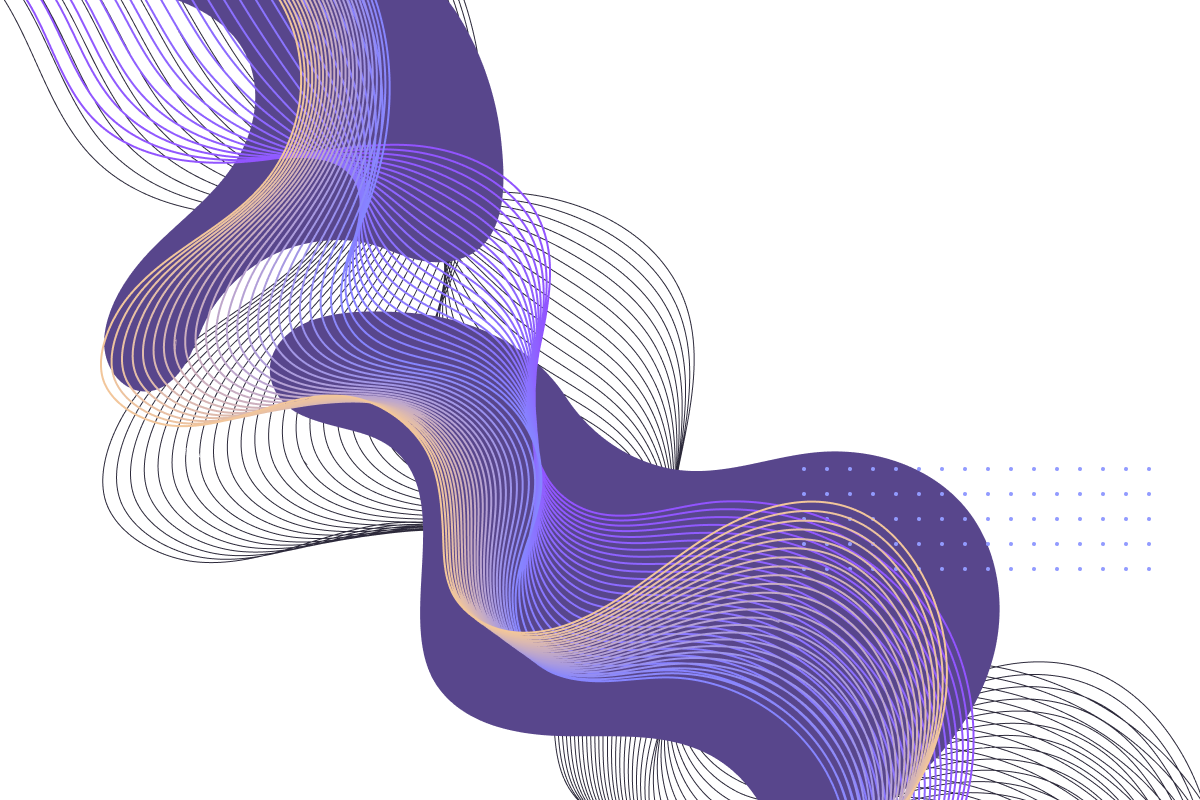
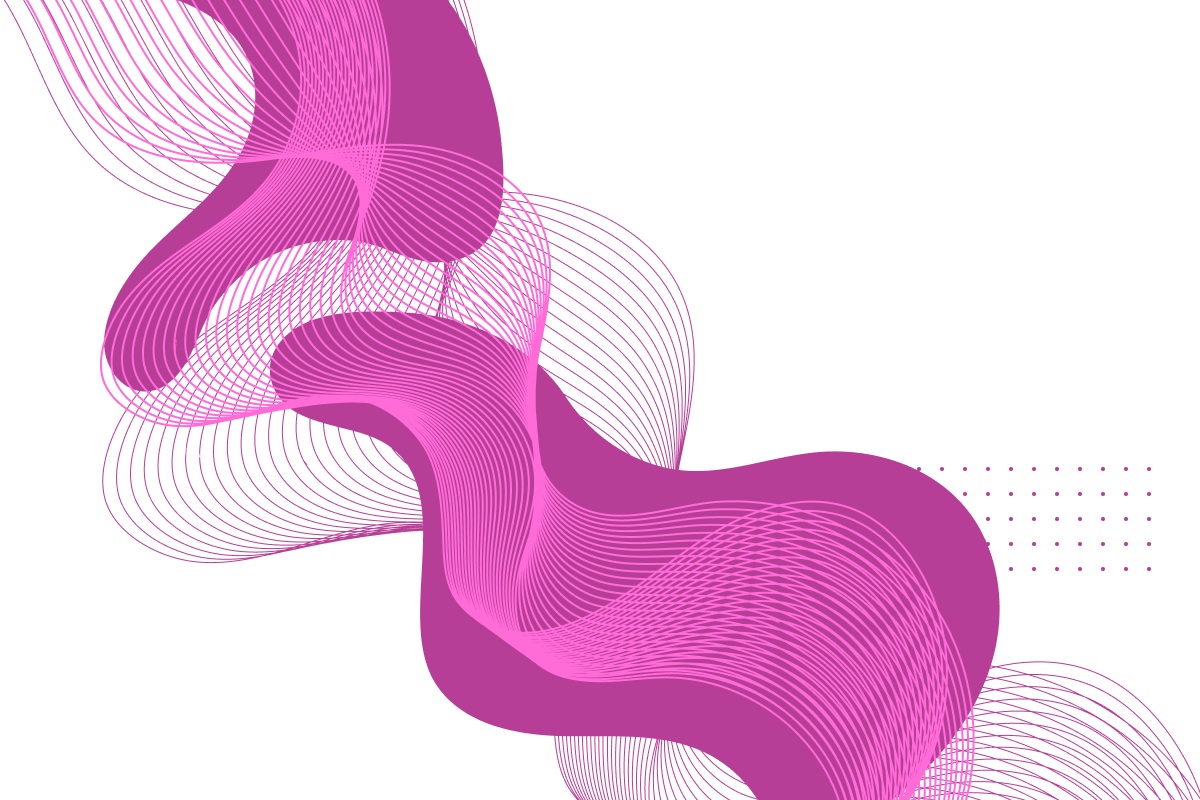
feat: final project - fix responsive issue and colors

diff --git a/src/components/Skills.js b/src/components/Skills.js
@@ -1,6 +1,7 @@
 import React from 'react';
 import gridImage from "@/assets/images/grid-image1.png";
 import gridImage2 from "@/assets/images/grid-image2.png";
+import clsx from 'clsx';
 
 const Skills = () => {
     return (
@@ -9,22 +10,16 @@ const Skills = () => {
             <div className="flex items-center space-x-4 sm:justify-center">
                 <h2 className="font-bold text-7xl text-start md:text-6xl xs:text-5xl">Skills</h2>
                 <span
-                    className={`xs:hidden h-[3px] w-40 bg-primary dark:bg-purple-500 transition-all duration-300 group-hover:w-52 md:w-32 sm:w-24`}
+                    className={`xs:hidden h-[3px] w-40 bg-primary dark:bg-primaryDark transition-all duration-300 group-hover:w-52 md:w-32 sm:w-24`}
                 ></span>
             </div>
 
 
             <div
-                className="grid grid-cols-3 sm:grid-cols-2 xl:grid-cols-4 relative rounded-2xl py-16 md:py-8"
-                style={{
-                    backgroundImage: `url(${gridImage.src})`,
-                    backgroundSize: 'cover',
-                    backgroundPosition: 'center',
-                    position: 'relative',
-                }}
-            >
-                {/* Sobreposição de opacidade */}
-                <div className="absolute inset-0 z-1 sm:hidden bg-bgLightXl dark:bg-bgDarkXl"  style={{
+                className="grid grid-cols-3 sm:grid-cols-2 xl:grid-cols-4 relative rounded-2xl py-16 md:py-8 skills-container">
+
+
+                <div className="absolute inset-0 z-1 sm:hidden bg-bgLightXl dark:bg-bgDarkXl" style={{
                     zIndex: 1
                 }}/>
                 <div className="absolute inset-0 z-1 hidden bg-bgLight sm:block dark:bg-bgDark" style={{
@@ -39,10 +34,15 @@ const Skills = () => {
         p-4 border-b-5xl border-mid-5xl  border-light dark:border-dark h-[276px] w-full sm:border-b-5xl sm:border-r-0
          xl:items-center xl:justify-center"
                     >
-                        <div className="absolute inset-0   bg-black/20 dark:bg-black/40"/>
-                        <div className="relative self-end  z-10 w-2/4 text-end lg:w-full  xl:w-full xl:text-center lg:self-end px-4 pb-4">
-                            <p className="dark:text-white text-2xl font-bold md:text-base sm:text-xl">Frontend Skills</p>
-                            <p className="dark:text-white text-base font-medium md:text-sm sm:text-lg">
+                        <div
+                            className="absolute inset-0 z-10 border-2 border-black dark:border-light bg-light/40 dark:bg-black/40 dark:md:bg-black/20 "></div>
+
+                        <div
+                            className="relative self-end  z-10 w-2/4 text-end lg:w-full  xl:w-full xl:text-center lg:self-end px-4 pb-4">
+                            <p className="dark:text-white text-2xl font-bold md:text-xl">
+                                <span className="  md:text-primary dark:text-primaryDark">Frontend&nbsp;</span>
+                                Skills</p>
+                            <p className="dark:text-white text-lg font-medium md:text-sm sm:text-lg">
                                 Lorem ipsum dolor sit amet, consectetur adipiscing elit.
                             </p>
                         </div>
@@ -51,15 +51,18 @@ const Skills = () => {
 
 
                 {/* Skill Section 2 */}
-                <div className="col-span-1 row-span-2 xl:col-span-2 xl:row-span-1 relative sm:h-64 xl:border-b-5xl dark:border-dark ">
+                <div
+                    className="col-span-1 row-span-2 xl:col-span-2 xl:row-span-1 relative sm:h-64 xl:border-b-5xl dark:border-dark ">
                     <div
                         className="relative flex items-start text-start p-4
                         h-full w-full xl:items-center xl:text-center "
                     >
-                        <div className="absolute inset-0  bg-black/20  dark:bg-black/40 "></div>
+                        <div
+                            className="absolute inset-0 z-10 border-2 border-black dark:border-light  bg-light/40 dark:bg-black/40 dark:md:bg-black/20 "></div>
                         <div className="relative z-10 w-full px-4 pb-4">
-                            <p className="dark:text-white text-2xl font-bold md:text-base sm:text-xl">Backend Skills</p>
-                            <p className="dark:text-white text-base font-medium md:text-sm sm:text-lg">
+                            <p className="dark:text-white text-2xl font-bold md:text-xl sm:text-xl">
+                                <span className="  md:text-primary dark:text-primaryDark">Backend&nbsp;</span>Skills</p>
+                            <p className="dark:text-white text-lg font-medium md:text-sm sm:text-lg">
                                 Lorem ipsum dolor sit amet, consectetur adipiscing elit.
                             </p>
                         </div>
@@ -72,10 +75,13 @@ const Skills = () => {
                         className="relative flex items-end text-start p-4 border-mid-5xl
                         sm:border-r-0 sm:border-b-5xl dark:border-dark h-[276px] w-full xl:items-center xl:text-center"
                     >
-                        <div className="absolute inset-0   bg-black/20 dark:bg-black/40 "></div>
+                        <div
+                            className="absolute inset-0 z-10 border-2 border-black dark:border-light bg-light/40 dark:bg-black/40 dark:md:bg-black/20 "></div>
+
                         <div className="relative z-10 w-full px-4 pb-4">
-                            <p className="dark:text-white text-2xl font-bold md:text-base sm:text-xl">Soft Skills</p>
-                            <p className="dark:text-white text-base font-medium md:text-sm w-4/6 xl:w-full sm:text-lg">
+                            <p className="dark:text-white text-2xl font-bold md:text-xl">
+                                <span className="  md:text-primary dark:text-primaryDark">Design&nbsp;</span>Skills</p>
+                            <p className="dark:text-white text-lg font-medium md:text-sm w-full xl:w-full sm:text-lg">
                                 Lorem ipsum dolor sit amet, consectetur adipiscing elit.
                             </p>
                         </div>
@@ -85,13 +91,15 @@ const Skills = () => {
                 {/* Contact Section */}
                 <div className="col-span-1 xl:col-span-2 relative">
                     <div
-                        className="relative flex items-end text-start p-4 border-mid-5xl
+                        className="relative flex items-end text-end p-4 border-mid-5xl
                          dark:border-dark xl:border-none  h-[276px] w-full xl:items-center xl:text-center"
                     >
-                        <div className="absolute inset-0  bg-black/20 dark:bg-black/40 "></div>
+                        <div
+                            className="absolute inset-0 z-10 border-2   border-black dark:border-light bg-light/40 dark:bg-black/40 dark:md:bg-black/20 "></div>
+
                         <div className="relative z-10 w-full px-4 pb-4">
-                            <p className="dark:text-white text-2xl font-bold md:text-base sm:text-xl">Contact</p>
-                            <p className="dark:text-white text-base font-medium md:text-sm w-4/6  xl:w-full sm:text-lg">
+                            <p className="dark:text-white text-2xl font-bold md:text-xl">Contact</p>
+                            <p className="dark:text-white text-lg font-medium md:text-sm w-full  xl:w-full sm:text-lg">
                                 Lorem ipsum dolor sit amet, consectetur adipiscing elit.
                             </p>
                         </div>

diff --git a/tailwind.config.js b/tailwind.config.js
@@ -26,7 +26,7 @@ module.exports = {
                 bgDarkXl: 'linear-gradient(0deg, rgba(27, 27, 27, 1) 0%, rgba(27,27,27,0.85) 5%, rgba(27,27,27,0.7) 8.6%, rgba(27,27,27,0) 15%, rgba(27, 27, 27, 0) 50%, rgba(27,27,27,0) 88%, rgba(27,27,27,0.8) 91%, rgba(27,27,27,0.9) 94%,  rgba(27, 27, 27, 2) 100%)',
                 bgDark: 'linear-gradient(0deg, rgba(27, 27, 27, 1) 0%, rgba(27,27,27,0.85) 5%, rgba(27,27,27,0.7) 8.6%, rgba(27,27,27,0) 15%, rgba(27, 27, 27, 0) 50%,  rgba(27,27,27,0) 88%, rgba(27,27,27,0.6) 96%,  rgba(27, 27, 27, 2) 100%)',
                 bgLight: 'linear-gradient(0deg, rgba(245, 245, 245, 1) 0%, rgba(245,245,245,0.85) 5%, rgba(245,245,245,0.7) 8.6%, rgba(245,245,245,0) 15%, rgba(245, 245, 245, 0) 50%, rgba(245,245,245,0) 88%, rgba(245,245,245,0.8) 91%, rgba(245,245,245,0.9) 94%, rgba(245, 245, 245, 2) 100%)',
-                bgLightXl: 'linear-gradient(0deg, rgba(245, 245, 245, 1) 0%, rgba(245,245,245,0.85) 5%, rgba(245,245,245,0.7) 8.6%, rgba(245,245,245,0) 15%, rgba(245, 245, 245, 0) 50%, rgba(245,245,245,0) 88%, rgba(245,245,245,0.6) 96%, rgba(245, 245, 245, 2) 100%)',
+                bgLightXl: 'linear-gradient(0deg, rgba(245, 245, 245, 1) 0%, rgba(245,245,245,0.85) 8%, rgba(245,245,245,0.7) 12.6%, rgba(245,245,245,0) 30%, rgba(245, 245, 245, 0) 50%, rgba(245,245,245,0) 82%, rgba(245,245,245,0.6) 90%, rgba(245, 245, 245, 2) 100%)',
             },
         },
         screens: {

diff --git a/src/styles/globals.css b/src/styles/globals.css
@@ -1,4 +1,3 @@
-/* styles.css ou global.css */
 @tailwind base;
 @tailwind components;
 @tailwind utilities;
@@ -31,13 +30,13 @@ body {
         @apply sm:px-10 px-5;
     }
 
-    /* about section */
+    /* About section */
     .grid-container {
-        @apply w-full h-full border  rounded-lg sm:p-7 p-4 flex flex-col gap-5;
+        @apply w-full h-full border rounded-lg sm:p-7 p-4 flex flex-col gap-5;
     }
 
     .grid-container2 {
-        @apply w-full  border rounded-lg sm:p-7 p-4 flex flex-col gap-5;
+        @apply w-full border rounded-lg sm:p-7 p-4 flex flex-col gap-5;
     }
 
     .grid-headtext {
@@ -56,7 +55,21 @@ body {
         border-bottom: 15px solid #f5f5f5;
     }
 
-    .border-mid-5xl{
+    .border-mid-5xl {
         border-right: 15px solid #f5f5f5;
+    }
+
+    /* Estilo padrão para a imagem de fundo */
+    .skills-container {
+        background-image: url('../../src/assets/images/grid-image1.png');
+        background-size: cover;
+        background-position: center;
+    }
+}
+
+/* Media query para dispositivos menores */
+@media (max-width: 768px) {
+    .skills-container {
+        background-image: none; /* Remove a imagem de fundo */
     }
 }

diff --git a/src/pages/index.js b/src/pages/index.js
@@ -22,7 +22,7 @@ export default function Home() {
             <main className="flex items-center text-dark w-full min-h-screen dark:text-light">
                 <Layout className="pt-0 md:-mt-16 sm:pt-8 lg:-mt-20 xl:pt-0 sm:-mt-32 sm:pb-0 xs:-mt-32 xs:py-0">
                     <div className="flex items-center justify-between w-full lg:flex-col">
-                        <div className="w-1/2  lg:w-full md:mb-8 md:w-4/5 xs:w-full">
+                        <div className="w-1/2  lg:w-full md:mb-8 md:w-4/5 xs:w-full sm:mb-0">
                             <Image src={profilePic}
                                    alt="IA developer image"
                                    className="w-full h-auto invert dark:invert-0 dark:filter dark:drop-shadow-[0_1px_6px_rgba(255,255,255,0.4)]  transition-all duration-300 lg:hidden md:inline-block "
